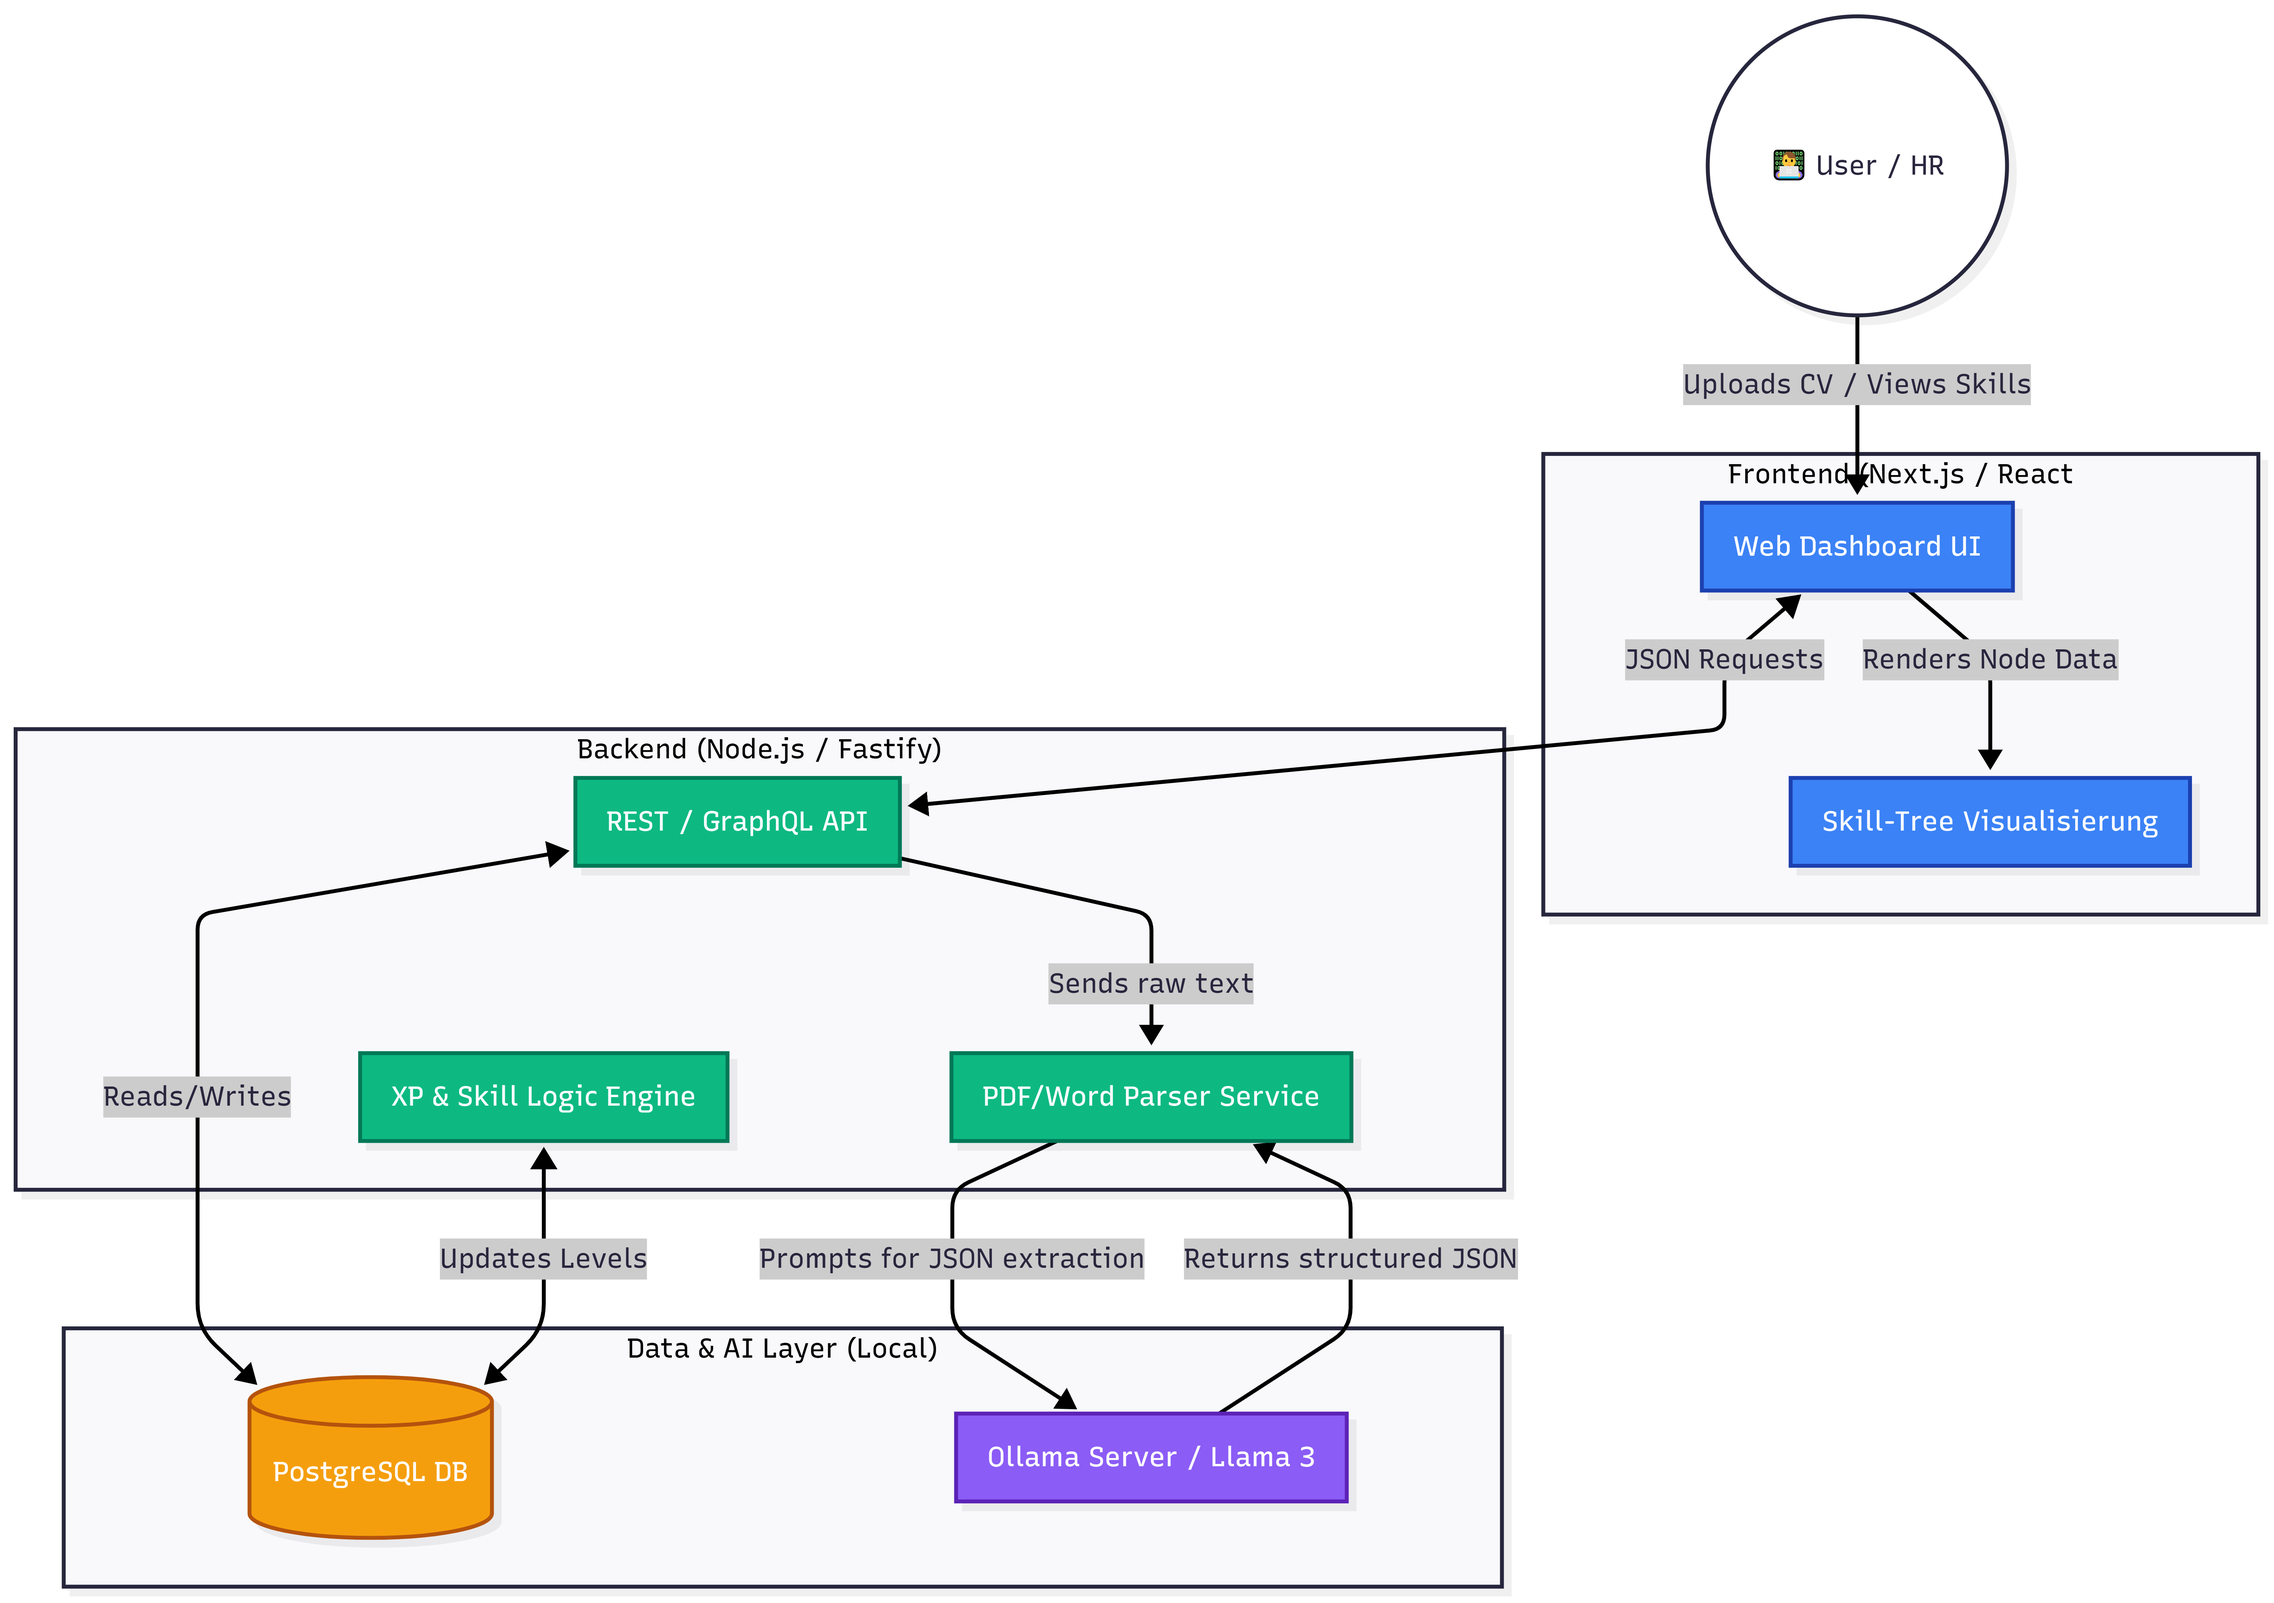
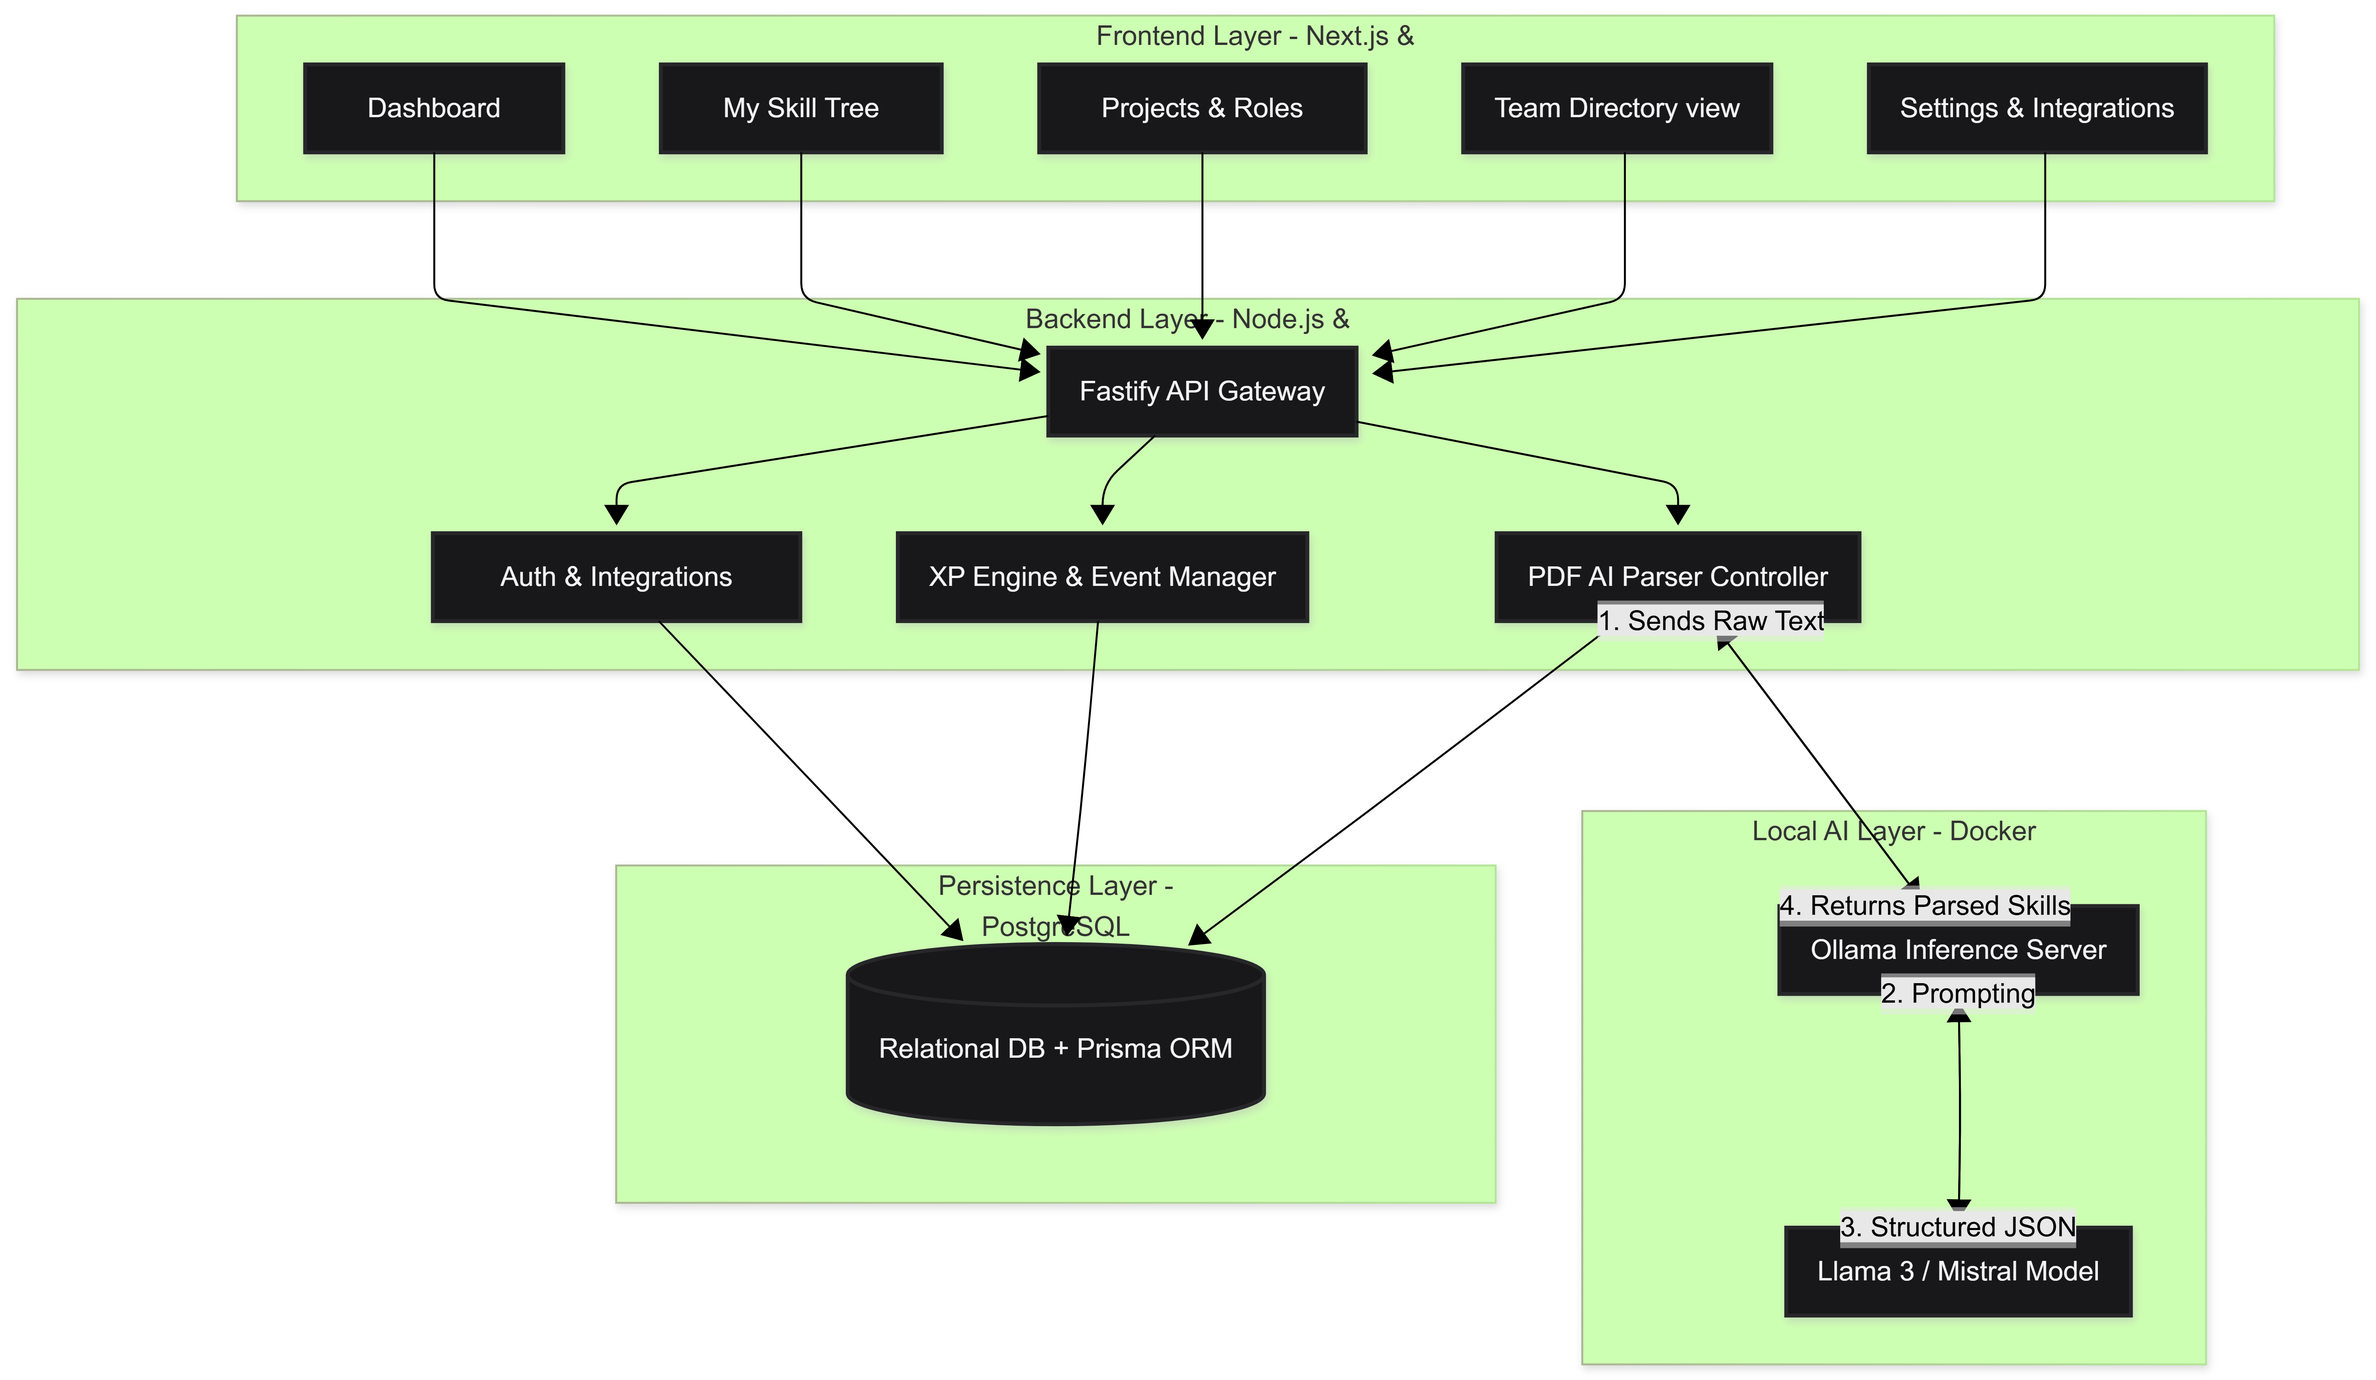
update design-system and system-architecture

diff --git a/docs/design-system.md b/docs/design-system.md
@@ -14,36 +14,50 @@ We use modern, highly readable web fonts (available via Google Fonts):
 
 ## 3. Color Palette (Tailwind CSS Tokens)
 
-### Base / Backgrounds (Zinc scale for a cool, professional look)
-| Element | Tailwind Class | Hex Code | Usage |
-| :--- | :--- | :--- | :--- |
-| **Main Background** | `bg-zinc-950` | `#09090b` | The absolute background of the app. |
-| **Card / Surface** | `bg-zinc-900` | `#18181b` | For panels, sidebars, and cards. |
-| **Borders / Divider** | `border-zinc-800` | `#27272a` | Fine dividing lines between elements. |
+### 🌑 Base / Backgrounds (Zinc scale for a cool, professional look)
+<div style="display: flex; gap: 10px; margin-bottom: 20px; flex-wrap: wrap;">
+  <div style="background-color: #09090b; color: white; padding: 10px; border-radius: 8px; border: 1px solid #27272a;">
+    <span style="display:inline-block; width:20px; height:20px; border-radius:50%; background-color:#09090b; border: 1px solid #3f3f46; vertical-align:middle;"></span> <b>Main Bg</b><br/><code>bg-zinc-950</code><br/><small>#09090b</small>
+  </div>
+  <div style="background-color: #18181b; color: white; padding: 10px; border-radius: 8px; border: 1px solid #27272a;">
+    <span style="display:inline-block; width:20px; height:20px; border-radius:50%; background-color:#18181b; border: 1px solid #3f3f46; vertical-align:middle;"></span> <b>Card Surface</b><br/><code>bg-zinc-900</code><br/><small>#18181b</small>
+  </div>
+  <div style="background-color: #27272a; color: white; padding: 10px; border-radius: 8px; border: 1px solid #3f3f46;">
+    <span style="display:inline-block; width:20px; height:20px; border-radius:50%; background-color:#27272a; vertical-align:middle;"></span> <b>Borders</b><br/><code>border-zinc-800</code><br/><small>#27272a</small>
+  </div>
+</div>
 
-### Typography (Text Colors)
-| Element | Tailwind Class | Hex Code | Usage |
-| :--- | :--- | :--- | :--- |
-| **Primary Text** | `text-zinc-100` | `#f4f4f5` | Body text, headings. |
-| **Muted Text** | `text-zinc-400` | `#a1a1aa` | Labels, metadata, timestamps. |
+### 📝 Typography (Text Colors)
+<div style="display: flex; gap: 10px; margin-bottom: 20px; flex-wrap: wrap;">
+  <div style="background-color: #18181b; color: white; padding: 10px; border-radius: 8px; border: 1px solid #27272a;">
+    <span style="display:inline-block; width:20px; height:20px; border-radius:50%; background-color:#f4f4f5; vertical-align:middle;"></span> <b>Primary Text</b><br/><code>text-zinc-100</code><br/><small>#f4f4f5</small>
+  </div>
+  <div style="background-color: #18181b; color: white; padding: 10px; border-radius: 8px; border: 1px solid #27272a;">
+    <span style="display:inline-block; width:20px; height:20px; border-radius:50%; background-color:#a1a1aa; vertical-align:middle;"></span> <b>Muted Text</b><br/><code>text-zinc-400</code><br/><small>#a1a1aa</small>
+  </div>
+</div>
 
-### Primary Accents (The "ArborStack" Brand Colors)
-| Element | Tailwind Class | Hex Code | Usage |
-| :--- | :--- | :--- | :--- |
-| **Brand Primary** | `text-emerald-500` | `#10b981` | Buttons, active tabs, the skill tree path. |
-| **Brand Hover** | `bg-emerald-600` | `#059669` | Button hover states. |
-| **Accent / Info** | `text-cyan-500` | `#06b6d4` | For interactive links or secondary highlights. |
+### ❇ Primary Accents (The "ArborStack" Brand Colors)
+<div style="display: flex; gap: 10px; margin-bottom: 20px; flex-wrap: wrap;">
+  <div style="background-color: #18181b; color: white; padding: 10px; border-radius: 8px; border: 1px solid #27272a;">
+    <span style="display:inline-block; width:20px; height:20px; border-radius:50%; background-color:#10b981; vertical-align:middle;"></span> <b>Brand Primary</b><br/><code>emerald-500</code><br/><small>#10b981</small>
+  </div>
+  <div style="background-color: #18181b; color: white; padding: 10px; border-radius: 8px; border: 1px solid #27272a;">
+    <span style="display:inline-block; width:20px; height:20px; border-radius:50%; background-color:#059669; vertical-align:middle;"></span> <b>Brand Hover</b><br/><code>emerald-600</code><br/><small>#059669</small>
+  </div>
+  <div style="background-color: #18181b; color: white; padding: 10px; border-radius: 8px; border: 1px solid #27272a;">
+    <span style="display:inline-block; width:20px; height:20px; border-radius:50%; background-color:#06b6d4; vertical-align:middle;"></span> <b>Accent / Info</b><br/><code>cyan-500</code><br/><small>#06b6d4</small>
+  </div>
+</div>
 
 ## 4. Gamification & Level Tiers (Semantic Colors)
 These colors are strictly used for visualizing skill levels and badges (as defined in the Game Design document):
 
-| Tier | Level | Tailwind Class | Style Vibe |
-| :--- | :--- | :--- | :--- |
-| **Novice** | 1 - 9 | `text-slate-400` | Gray / Inconspicuous |
-| **Apprentice** | 10 - 19 | `text-emerald-400` | Green / Solid |
-| **Adept** | 20 - 39 | `text-blue-400` | Blue / Advanced |
-| **Expert** | 40 - 49 | `text-purple-500` | Purple / Epic |
-| **Master** | 50 | `text-amber-400` | Gold / Legendary |
+* <span style="display:inline-block; width:16px; height:16px; border-radius:50%; background-color:#94a3b8; vertical-align:middle;"></span> **Novice (Lvl 1-9):** `text-slate-400` (#94a3b8) - Gray / Inconspicuous
+* <span style="display:inline-block; width:16px; height:16px; border-radius:50%; background-color:#34d399; vertical-align:middle;"></span> **Apprentice (Lvl 10-19):** `text-emerald-400` (#34d399) - Green / Solid
+* <span style="display:inline-block; width:16px; height:16px; border-radius:50%; background-color:#60a5fa; vertical-align:middle;"></span> **Adept (Lvl 20-39):** `text-blue-400` (#60a5fa) - Blue / Advanced
+* <span style="display:inline-block; width:16px; height:16px; border-radius:50%; background-color:#a855f7; vertical-align:middle;"></span> **Expert (Lvl 40-49):** `text-purple-500` (#a855f7) - Purple / Epic
+* <span style="display:inline-block; width:16px; height:16px; border-radius:50%; background-color:#fbbf24; vertical-align:middle;"></span> **Master (Lvl 50):** `text-amber-400` (#fbbf24) - Gold / Legendary
 
 ## 5. UI Components & Patterns
 - **Buttons:** Minimalistic. Primary buttons feature a strong Emerald background, while secondary buttons are transparent with a `border-zinc-700`.

diff --git a/docs/tech-stack.md b/docs/tech-stack.md
@@ -1,0 +1,27 @@
+# 🛠 ArborStack - Tech Stack & Technologies
+
+This document outlines the official technology stack for ArborStack. The stack was chosen to maximize developer experience, ensure type safety across the entire codebase, and guarantee 100% data privacy via self-hosting.
+
+## 1. Frontend (Client-Side)
+- **Framework:** Next.js (React) - For robust routing and server-side rendering capabilities where needed.
+- **Styling:** Tailwind CSS - Using strict utility classes based on our custom Zinc/Emerald Dark Mode theme.
+- **Data Visualization:** React Flow - Essential for rendering the interactive, node-based "Skill Tree" UI.
+- **Icons:** Lucide React - Clean, consistent, and lightweight SVGs.
+
+## 2. Backend (Server-Side)
+- **Runtime:** Node.js.
+- **Language:** TypeScript (Strict Mode) - End-to-end type safety.
+- **API Framework:** Fastify - Chosen over Express for its superior performance, low overhead, and excellent plugin ecosystem.
+- **Architecture Pattern:** Controller-Service-Repository pattern to keep business logic decoupled from API routes.
+
+## 3. Database & ORM
+- **Database:** PostgreSQL 16 - Highly reliable relational database. Structured to handle our complex junction tables (`PROJECT_MEMBER`, `PROJECT_SKILL`) efficiently.
+- **ORM:** Prisma - Provides type-safe database access, automated migrations, and an intuitive schema definition format.
+
+## 4. Local AI Layer (Privacy-First NLP)
+- **Inference Engine:** Ollama - Runs entirely locally within a Docker container. No data is sent to external APIs (like OpenAI or Anthropic).
+- **Models:** Llama 3 or Mistral (8B parameters) - Used specifically for parsing unstructured PDF resumes into structured JSON skill arrays.
+
+## 5. Infrastructure & DevOps
+- **Containerization:** Docker & Docker Compose - Ensures the entire application (DB, Backend, Frontend, AI Layer) can be spun up with a single command.
+- **Version Control:** Git & GitHub.
